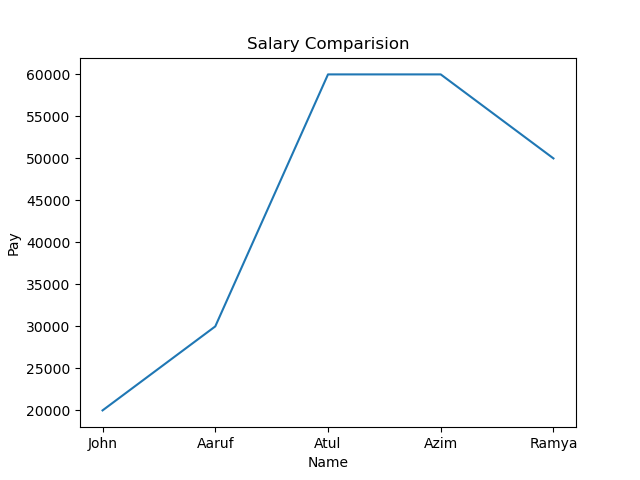
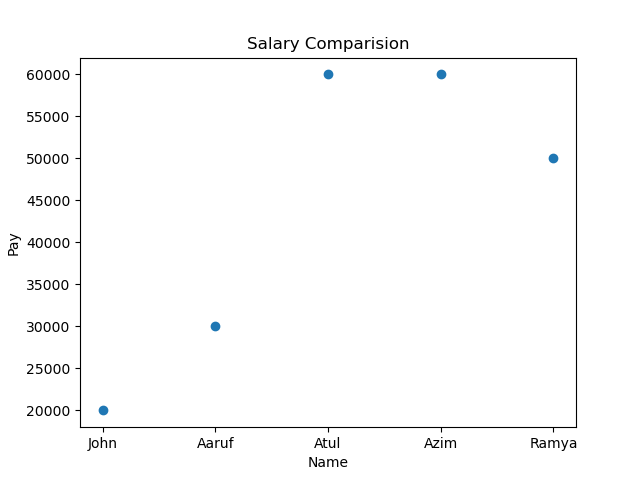
scatter plot update

diff --git a/Classes_FIle_Hanlding_plot/classes.py b/Classes_FIle_Hanlding_plot/classes.py
@@ -39,7 +39,7 @@ class Employee:
 
 def Plot_it(x_axis,y_axis):
     name_file=input("Enter the image filename")
-    plt.plot(x_axis,y_axis)
+    plt.scatter(x_axis,y_axis)
     plt.title("Salary Comparision")
     plt.xlabel('Name')
     plt.ylabel('Pay')
